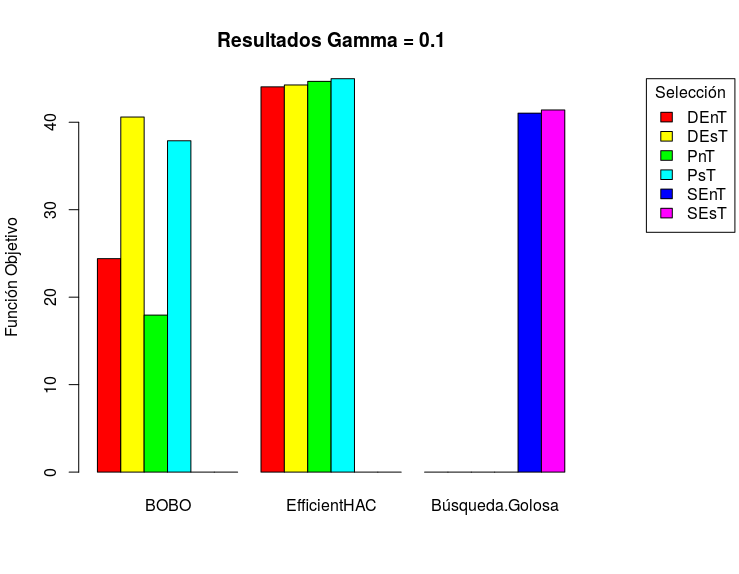
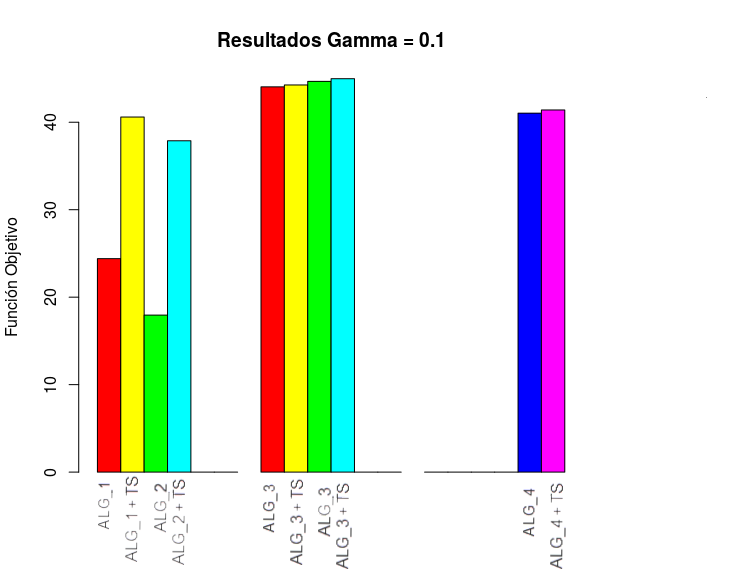
informe

diff --git a/informe/resultados.tex b/informe/resultados.tex
@@ -8,7 +8,7 @@ En los gráficos de \ref{res:img-explain-bars} se visualiza a través del tamañ
   \label{res:img-explain-bars}
 \end{figure}
 
-En los gráficos de tipo burbuja \ref{res:img-explain-bubbles} se observa la relación entre los tópicos y los bundles. Cada burbuja representa un tópico y contiene los círculos de la proporción en la relación entre el tópico que representa y un artículo del resultado, además el color del círculo representa al bundle al que pertence el artículo. Entonces si las burbujas contienen círculos de más de un color se puede decir que ese resultado no es muy diverso, mientras que el color de los círculos de las burbujas sea más homogéneo el resultado es más diverso. En cuanto a la cohesión de los bundles, es más cohesivo cuando el tamaño de cada circulo dentro de cada burbuja sea similar (para el mismo color) y la distribución de los círculos entre cada burbuja es equitativa.
+En los gráficos de tipo burbuja \ref{res:img-explain-bubbles} se observa la relación entre los tópicos y los bundles. Cada burbuja representa un tópico y contiene los círculos de la proporción en la relación entre el tópico que representa y un artículo del resultado, además el color del círculo representa al bundle al que pertenece el artículo. Entonces si las burbujas contienen círculos de más de un color se puede decir que ese resultado no es muy diverso, mientras que el color de los círculos de las burbujas sea más homogéneo el resultado es más diverso. En cuanto a la cohesión de los bundles, es más cohesivo cuando el tamaño de cada circulo dentro de cada burbuja sea similar (para el mismo color) y la distribución de los círculos entre cada burbuja es equitativa.
 
 \begin{figure}[H]
   \centering
@@ -30,7 +30,7 @@ En las primeras ejecuciones realizada se observa que el valor de la función obj
 Al contar con muchos artículos con un solo tópico las soluciones obtenidas no permiten realizar una correcta comparación de las heurísticas, por lo tanto a fines prácticos de comparar las distintas implementaciones y obtener un conjunto de bundles más interesantes, se decidió eliminar los artículos que contengan un solo un tópico.
 \paragraph{Soluciones con bundles unitarios}
 Las soluciones obtenidas mediante las búsquedas en las que se prioriza que los bundles sean más cohesivos (\textbf{inter}) contenían una alta cantidad de bundles con uno o dos elementos únicamente, tal conducta no es la deseada ya que queda una parte del presupuesto sin ser usado.\\
-Este comportamiento ocurre particularmente con el método jerárquico o HAC en la etapa de producción del algoritmo \texttt{PAC}, ya que algunos cluster generados no superan el presupuesto pero no pueden ser unidos con otro cluster porque invalida la complementaridad que se quiere lograr. Suponiendo que para la búsqueda \textit{Artículos de diferentes conferencias} existen los artículos $A_1$, $A_2$, $A_3$, $A_4$ y $A_5$ y tienen una distribución del tópico $t$ mayor a $0.7$, es lógico que se genere un bundle con estos 5 artículos porque es cohesivo. Ahora si las conferencias son $V_1, V_2$ y $V_3$ y los artículos se presentan de la siguiente manera:
+Este comportamiento ocurre particularmente con el método jerárquico o HAC en la etapa de producción del algoritmo \texttt{PAC}, ya que algunos cluster generados no superan el presupuesto pero no pueden ser unidos con otro cluster porque invalida la complementariedad que se quiere lograr. Suponiendo que para la búsqueda \textit{Artículos de diferentes conferencias} existen los artículos $A_1$, $A_2$, $A_3$, $A_4$ y $A_5$ y tienen una distribución del tópico $t$ mayor a $0.7$, es lógico que se genere un bundle con estos 5 artículos porque es cohesivo. Ahora si las conferencias son $V_1, V_2$ y $V_3$ y los artículos se presentan de la siguiente manera:
 \begin{itemize}
 	\item $A_1$ $\rightarrow$ $V_1$
 	\item $A_2$ $\rightarrow$ $V_2$
@@ -39,14 +39,21 @@ Este comportamiento ocurre particularmente con el método jerárquico o HAC en l
 
 Entonces para el criterio de búsqueda los artículos $A_3, A_4$ y $A_5$ no pueden pertenecer al mismo bundle pues éstos no son complementarios entre sí.\\
 El proceso de clusterización jerárquico, puede generar la siguiente configuración en la cual no se pueden unir los bundles, el bundle $B_1$ con los artículos $A_1$ y $A_3$ el bundle $B_2$ con los artículos $A_2$ y $A_4$ y el bundle $B_3$ con el artículo $A_5$. Efectivamente esta clusterización no es la más óptima para el problema porque se podría haber generado un bundle más cohesivo (\textbf{mayor intra}) si se hubiera elegido el siguiente bundle $A_1$, $A_2$ y $A_3$.\\
-La propuesta para corregir esta situación fue la de realizar una Búsqueda Tabú al finalizar la etapa del \textit{Produce} con los bundles ya generados asi de esta forma mejorar el intra de los bundles antes de la etapa de selección.
+La propuesta para corregir esta situación fue la de realizar una Búsqueda Tabú al finalizar la etapa del \textit{Produce} con los bundles ya generados así de esta forma mejorar el intra de los bundles antes de la etapa de selección.
 \subsubsection{Resultados}
 De los algorimos descriptos en la sección Desarrollo se ejecutaron pruebas con \texttt{PAC} y \texttt{Búsqueda Golosa}. Con el algoritmo \texttt{PAC} en la etapa de generación de bundles se utilizaron las estrategias \texttt{BOBO-k} y \texttt{Efficient C-HAC} y en la etapa de selección las heuristicas \texttt{Selección de bundles} y \texttt{Selección de bundles proporcional}. Adémas una vez obtenida la solución se aplicaron las búsquedas Tabú para intentar mejorar la solución.\\
 \Solucion
 {}
-{\texttt{EfficientHAC}, \texttt{Búsqueda Golosa} y \texttt{BOBO-100}}
-{Denset Subgraph, Proportional (no aplican a la búsqueda golosa)}
-{$\in$ $(0,1; 0,3; 0,5; 0,7; 0,9)$}
+{
+\begin{description}
+	\item[alg\_1] \texttt{PAC(BOBO-100/Selección de bundles)}
+	\item[alg\_2] \texttt{PAC(BOBO-100/Selección de bundles proporcional)}
+	\item[alg\_3] \texttt{PAC(Efficient C-HAC/Selección de bundles)}
+	\item[alg\_4] \texttt{PAC(Efficient C-HAC/Selección de bundles proporcional)}
+	\item[alg\_5] \texttt{Búsqueda Golosa}
+\end{description}
+}
+{$(0,1; 0,3; 0,5; 0,7; 0,9)$}
 {10}
 {5}
 
@@ -58,26 +65,17 @@ De la tabla \ref{res:tbl-cant-bundles} se observa la cantidad de bundles que gen
     \hline
     Algoritmo & Bundles Generados \\
     \hline
-    SingleHAC & $2378$ \\
-    Búsqueda Golosa & $10$ \\
+    Efficient C-HAC & $2378$ \\
     BOBO-100 & $100$ \\
     \hline
     \end{tabular}
   }
-    \caption {Cantidad de bundles generados antes de la selección final}
+    \caption {Cantidad de bundles generados en la fase de producción de PAC según algoritmo}
     \label{res:tbl-cant-bundles}
 \end{table}
 \newpage
 
-En los gráficos \ref{res:img-papers-agr-gamma01} y \ref{res:img-papers-agr-gamma09} se muestran agrupados por algoritmo de resolución las diferentes estrategias usadas en cada caso y los valores de la función objetivo alcanzado toma los dos extremos del valor de $\gamma$ $0.1$ y $0.9$. Cada color corresponde a una estratégia diferente de selección de acuerdo a la siguiente nomenclatura.
-\begin{itemize}
- \item DEnT: Denset Subgraph sin la aplicación de la Búsqueda Tabú.
- \item DEsT: Denset Subgraph con la aplicación de la Búsqueda Tabú.
- \item PnT: Proportional sin la aplicación de la Búsqueda Tabú.
- \item PsT: Proportional con la aplicación de la Búsqueda Tabú.
- \item SEnT: Sin estratégia sin la aplicación de la Búsqueda Tabú.
- \item SEsT: Sin estratégia con la aplicación de la Búsqueda Tabú.
-\end{itemize}
+En los gráficos \ref{res:img-papers-agr-gamma01} y \ref{res:img-papers-agr-gamma09} se muestran agrupados por algoritmo de resolución las diferentes estrategias usadas en cada caso y los valores de la función objetivo alcanzado toma los dos extremos del valor de $\gamma$ $0.1$ y $0.9$. 
 
 \begin{figure}[H]
   \centering
@@ -126,7 +124,7 @@ En \ref{res:img-papers-agr-gamma01} y \ref{res:img-papers-agr-gamma09} se visual
   \label{res:img-papers-bubbles-gamma09-hac-intra-inter}
 \end{figure}
 
-De los gráficos \ref{res:img-papers-gamma01-hac-intra-inter} y \ref{res:img-papers-gamma09-hac-intra-inter} se puede observar como para $\gamma$ de valor bajo los perfiles de los artículos elegidos se encuentran más distribuidos entre los tópicos mientras que para valores más altos el mayor porcentaje se concentra en un pocos perfiles, generando en este último bundles más cohesivos como se está buscando, pero a la vez se tiene menos diversidad ya que en toda la solución se concentran los valores más representantivos de los perfiles de los artículos en un pocos como bien puede observarse en \ref{res:img-papers-bubbles-gamma09-hac-intra-inter}.\\
+De los gráficos \ref{res:img-papers-gamma01-hac-intra-inter} y \ref{res:img-papers-gamma09-hac-intra-inter} se puede observar como para $\gamma$ de valor bajo los perfiles de los artículos elegidos se encuentran más distribuidos entre los tópicos mientras que para valores más altos el mayor porcentaje se concentra en un pocos perfiles, generando en este último bundles más cohesivos como se está buscando, pero a la vez se tiene menos diversidad ya que en toda la solución se concentran los valores más representativos de los perfiles de los artículos en un pocos como bien puede observarse en \ref{res:img-papers-bubbles-gamma09-hac-intra-inter}.\\
 El comportamiento fue el mismo para todas las estrategias de selección que se utilizaron, la única diferencia fueron los valores finales de la función objetivo.
 \paragraph{BOBO-100}
 En este caso al ser muy grande la diferencia entre entre la utilización de la heurística Tabú y la ejecución sin ella,  se incluyó para poder visualizar los cambios en la solución.
@@ -217,7 +215,7 @@ Al igual que con las búsquedas de artículos se realizaron las mismas ejecucion
   \label{res:img-autores-agr-gamma09}
 \end{figure}
 
-El comportamiento de las ejecuciones fueron muy similares a las que se obtuvieron en la búsqueda de artículos, la utilización de la Búsqueda Tabú mejoró sustancialmente el algoritmo \texttt{BOBO} en todos sus variantes. En el caso de \texttt{SingleHAC}, solo mejoró con la estratégia de selección \texttt{Proportional}. Casualmente fue la única estratégia que tuvo un comportamiento diferente en relación a la búsqueda de artículos, en la cuál su función objetivo siempre tuvo valores mayores o iguales a por ejemplo la selección \texttt{INTRA} y en este caso fue menor o igual. Igualmente las difrencias en términos de valor son mínimas y se deben a la conformación de los perfiles de los elementos.\\
+El comportamiento de las ejecuciones fueron muy similares a las que se obtuvieron en la búsqueda de artículos, la utilización de la Búsqueda Tabú mejoró sustancialmente el algoritmo \texttt{BOBO} en todos sus variantes. En el caso de \texttt{SingleHAC}, solo mejoró con la estratégia de selección \texttt{Proportional}. Casualmente fue la única estrategia que tuvo un comportamiento diferente en relación a la búsqueda de artículos, en la cuál su función objetivo siempre tuvo valores mayores o iguales a por ejemplo la selección \texttt{INTRA} y en este caso fue menor o igual. Igualmente las diferencias en términos de valor son mínimas y se deben a la conformación de los perfiles de los elementos.\\
 Como se menciona anteriormente, al no comportarse de una manera diferente a la búsqueda de artículos no se incluyeron los gráficos.
 \newpage
 \subsection{Búsqueda de Instituciones}\label{res:busInstituciones}
@@ -259,7 +257,7 @@ Aquí se muestran las soluciones en las que cada bundle representa un conjunto d
 Se generaron soluciones con las siguientes características:\\
 \SolucionBudget
 {}
-{\texttt{SingleHAC}, \texttt{Búsqueda Golosa} y \texttt{BOBO-100}}
+{\texttt{Goloso}, \texttt{PAC(SingleHAC},  y \texttt{BOBO-100}}
 {Denset Subgraph, Proportional (no aplica a la búsqueda golosa)}
 {$\in$ $(0,1; 0,3; 0,5; 0,7; 0,9)$}
 {10}

diff --git a/informe/conclusiones.tex b/informe/conclusiones.tex
@@ -1,6 +1,6 @@
 \section{Búsquedas generales}
-A partir de los resultados obtenidos en las pruebas realizadas la utilización de las búsquedas tabú siempre mejoró los resultados en cualquier circunstancia y sin modificar significativamente el tiempo de ejecución total. Una de ellos es completamente independiente de la implementación de PAC que se este usando por lo que siempre se debería intentar mejorar las soluciones obtenidas con los métodos tradicionales usando este tipo de búsquedas.\\
-La implementación del algoritmo goloso no obtuvo mejores soluciones que HAC pero en la mayoría de los casos fue superior a BOBO y sus tiempos de ejecución se comportaron inversamente a sus resultados. Como toda la familia de algoritmos golosos tienen la ventaja de poder ser escritos muy rápidamente, convirtiendolos en una alternativa muy interesante en los casos que se necesite una solución a este tipo de problemas y sea aceptable que las soluciones no sean las mejores con respecto a otros métodos ya conocidos.\\
+A partir de los resultados obtenidos en las pruebas realizadas la aplicación de las búsquedas tabú siempre mejoró los resultados en cualquier circunstancia y sin modificar significativamente el tiempo de ejecución. En el caso de PAC con la generación de bundles con BOBO, aplicando la búsqueda tabú el resultado mejoro considerablemente.\\
+Comparando entre el algoritmo goloso y PAC, se obtuvo que el algoritmo goloso dio mejores resultados cuando la producción de bundles se hizo con la estrategia BOBO pero no así con la estrategia de producción jerárquica. Como toda la familia de algoritmos golosos tienen la ventaja de poder ser escritos muy rápidamente, convirtiéndolos en una alternativa muy interesante en los casos que se necesite una solución a este tipo de problemas y sea aceptable que las soluciones no sean las mejores con respecto a otros métodos ya conocidos.\\
 Las implementaciones de BOBO fueron en todos los casos las más rápidas resultando ser las ideales para instancias muy grandes sobre todo si se aplica al final una búsqueda tabú, que como se observó mejora mucho las soluciones en estos casos. En cambio HAC en las pruebas realizadas con un universo de elementos menor a los 10000, cuadruplica o quintuplica a los tiempos debido a su complejidad ($\mathcal{O}(N^{2}\lg n)$), pero en instancias más chicas como las atracciones turísticas los tiempos fueron muy cercanos entre ellos.\\
 En las ejecuciones realizadas con la implementación del algoritmo \textbf{HAC}, \texttt{SingleHAC} y \texttt{EfficientHAC}, se observó que para valores de $\gamma$ bajos se generaban las mismos soluciones, en cambio para $\gamma$ mayores $0.7$ se obtenían diferentes. Dichas soluciones tenían un valor, con respecto a la función objetivo, prácticamente igual pero se sus relaciones interbundles eran mejores.\\
 En los experimentos realizados el uso de una variante u otro no resultó ser significativo, al menos con los datos que se usaron.\\

diff --git a/informe/desarrollo.tex b/informe/desarrollo.tex
@@ -338,7 +338,7 @@ El bundle de (3) se obtiene de $b_n = \min_{b_1 \in S \setminus \left\{b_r\right
 \ENDWHILE
 \RETURN $bestSolution$
 \end{algorithmic}
-\caption{Algoritmo búsqueda tabú sobre bundles}\label{alg:algBusTabuBundle}
+\caption{Búsqueda tabú sobre bundles}\label{alg:algBusTabuBundle}
 \end{algorithm}
 
 \subsection{Intra-Bundle}
@@ -399,5 +399,5 @@ Sea $S$ el conjunto de bundles de la solución e $I$ el conjunto de ítems, el b
 \ENDWHILE
 \RETURN $bestSolution$
 \end{algorithmic}
-\caption{Algoritmo búsqueda tabú sobre elementos}\label{alg:algBusTabuIntra}
+\caption{Búsqueda tabú sobre elementos}\label{alg:algBusTabuIntra}
 \end{algorithm}
